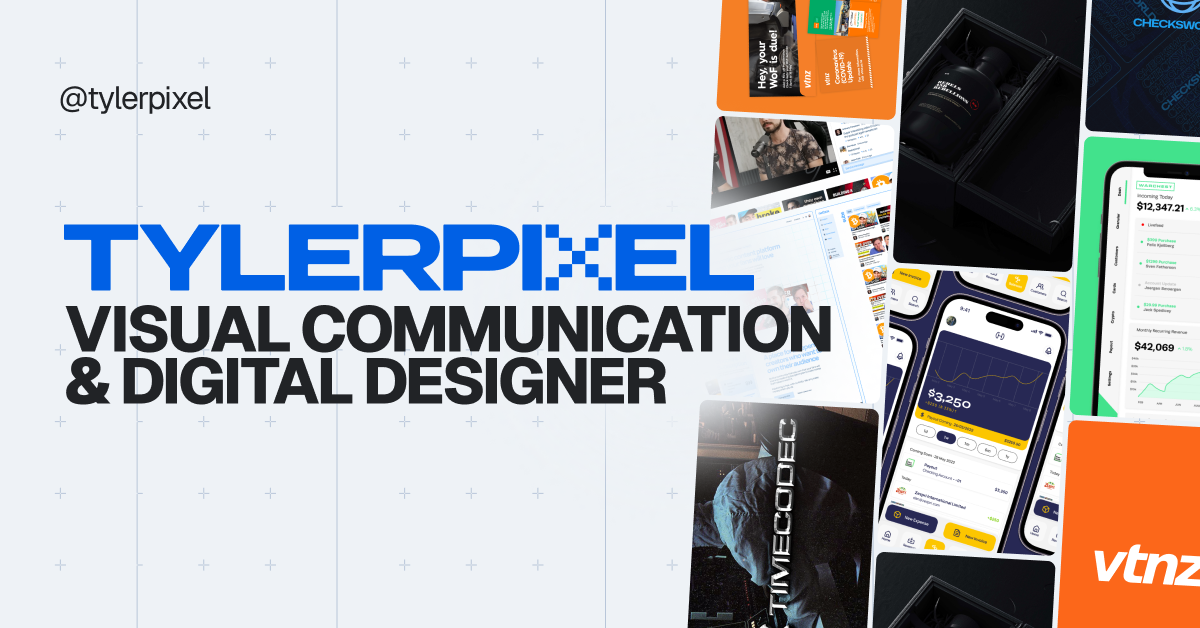
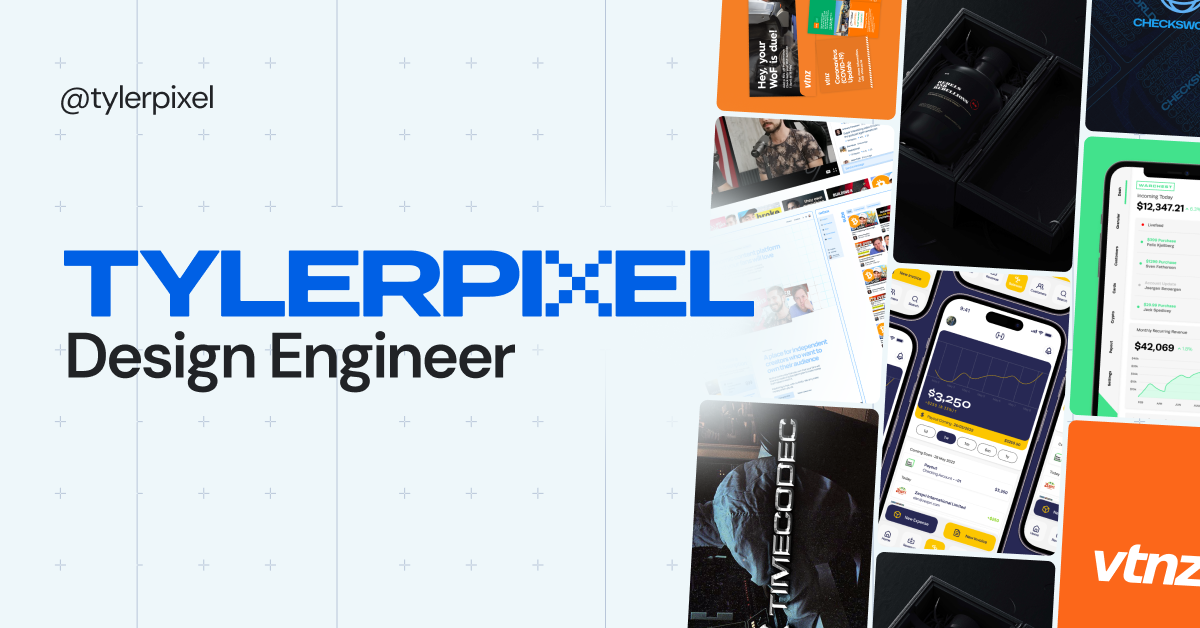
Update link preview image (v1.0.5)

Changed region(s): [[0.0308, 0.3328, 0.7092, 0.6656], [0.0308, 0.121, 0.185, 0.1815]]

diff --git a/index.html b/index.html
@@ -14,11 +14,14 @@
     <meta content="Brand identity design and product engineering by Tyler Pixel, based in Brisbane, Australia." name="description" />
     <meta content="Brand identity design and product engineering by Tyler Pixel, based in Brisbane, Australia." property="og:description" />
     <!-- Metadata Images -->
-    <meta content="/images/linky-image.png" property="og:image" />
+    <meta content="https://tylerpixel.com/images/linky-image.png" property="og:image" />
+    <meta content="1200" property="og:image:width" />
+    <meta content="628" property="og:image:height" />
+    <meta content="Tyler Pixel — Design Engineer" property="og:image:alt" />
     <!-- Metadata Misc -->
     <meta name="theme-color" content="#ffffff" />
     <meta property="og:type" content="website" />
-    <meta name="twitter:card" content="summary" />
+    <meta name="twitter:card" content="summary_large_image" />
     <meta name="twitter:site" content="@tylerpixel" />
     <meta name="twitter:creator" content="@tylerpixel" />
     <meta property="og:url" content="https://tylerpixel.com" />
